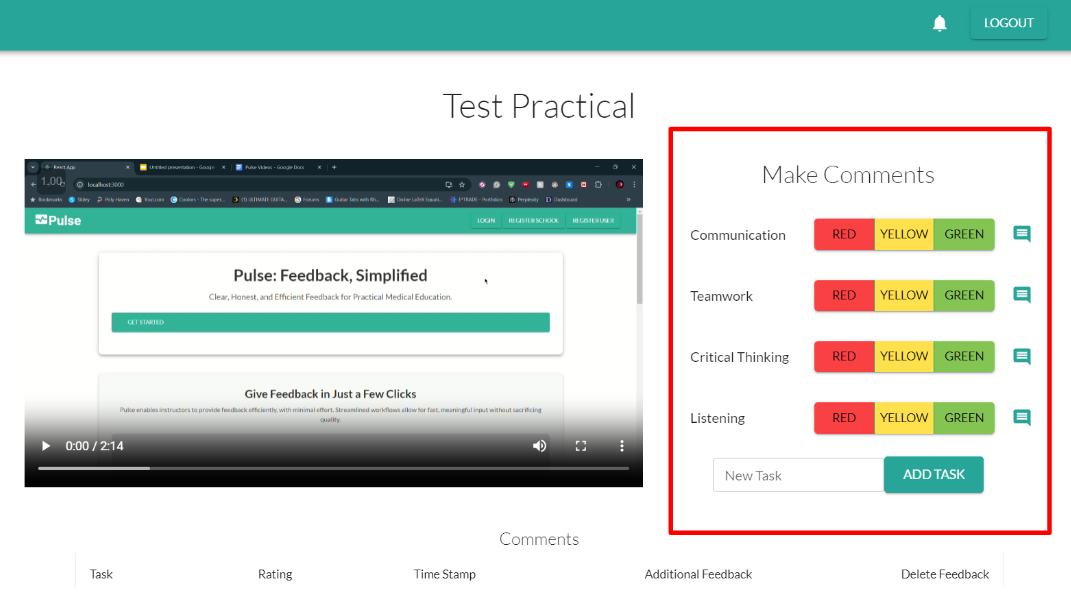
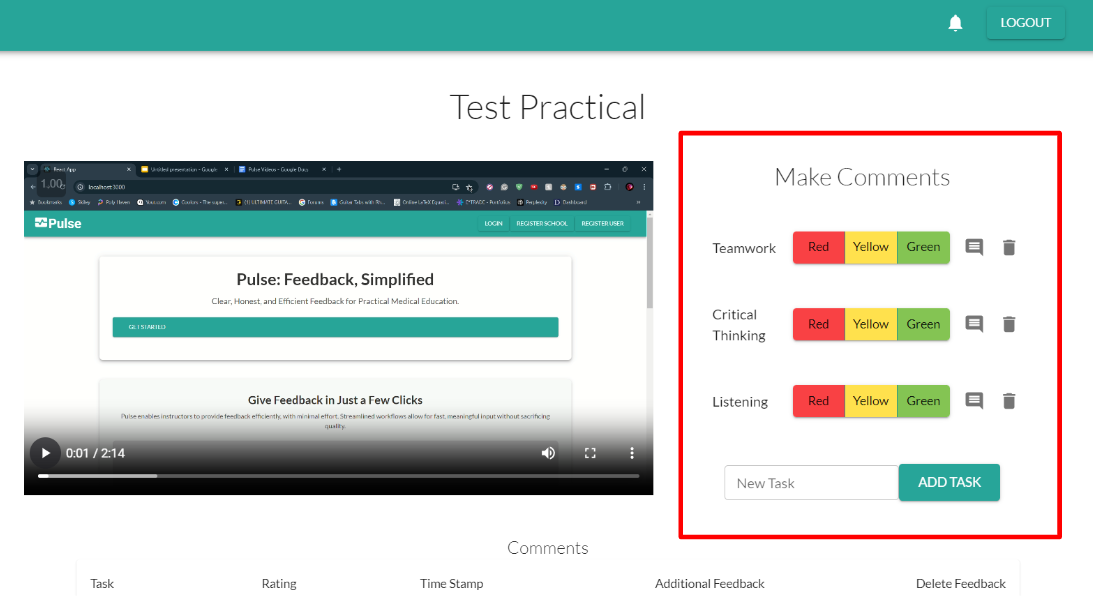
user guides

diff --git a/client/src/components/pages/InstructorPractical.js b/client/src/components/pages/InstructorPractical.js
@@ -1041,35 +1041,31 @@ export default function InstructorPractical() {
                                     }}>
 
                                         <Box sx={{
-                                            width: "200px",
+                                            minWidth: "160px",
+                                            maxWidth: "160px",
                                             height: "100%",
-                                            pl: 2,
+                                            pl: 1,
+                                            display:"flex"
                                         }}>
                                             <Typography variant="h7">{task.name}</Typography>
                                         </Box>
 
-                                        <Box sx={{ minWidth: "210px", maxWidth: "210px", p: 0 }}>
+                                        <Box sx={{ minWidth: "180px", maxWidth: "180px", display:"flex"}}>
                                             <ButtonGroup variant="contained" aria-label="Basic button group" >
-                                                <Button onClick={() => { handleRating(task, 1) }} variant="contained" color="red" disableElevation sx={{ width: "70px" }}>Red</Button>
-                                                <Button onClick={() => { handleRating(task, 3) }} variant="contained" color="yellow" disableElevation sx={{ width: "70px" }}>Yellow</Button>
-                                                <Button onClick={() => { handleRating(task, 5) }} variant="contained" color="green" disableElevation sx={{ width: "70px" }}>Green</Button>
+                                                <Button onClick={() => { handleRating(task, 1) }} variant="contained" color="red" disableElevation sx={{ width: "60px",textTransform:'none' }}>Red</Button>
+                                                <Button onClick={() => { handleRating(task, 3) }} variant="contained" color="yellow" disableElevation sx={{ width: "60px",textTransform:'none' }}>Yellow</Button>
+                                                <Button onClick={() => { handleRating(task, 5) }} variant="contained" color="green" disableElevation sx={{ width: "60px",textTransform:'none' }}>Green</Button>
                                             </ButtonGroup>
                                         </Box>
-
-                                        <Box sx={{ width: "30px", height: "100%" }}>
-                                            <Button onClick={() => handleTaskChatButton(task)}>
-                                                <InsertCommentIcon />
-                                            </Button>
+                                        <Box sx={{width:"40px",px:1}}>
+                                        <IconButton aria-label="delete" onClick={() => handleTaskChatButton(task)}>
+                                        <InsertCommentIcon />
+                                        </IconButton>
                                         </Box>
-
-                                        <Box sx={{ width: "30px", height: "100%" }}>
-                                            <Button
-                                                onClick={() => handleRemoveTask(task)}
-                                                variant="contained"
-                                                color="error"
-                                            >
-                                                <DeleteIcon />
-                                            </Button>
+                                        <Box sx={{width:"40px",px:1}}>
+                                        <IconButton aria-label="delete" onClick={() => handleRemoveTask(task)}>
+                                        <DeleteIcon />
+                                        </IconButton>
                                         </Box>
                                     </Box>
 
@@ -1235,8 +1231,8 @@ export default function InstructorPractical() {
                         alignItems: "center",
                         justifyContent: "center"
                     }}>
-                        <Typography id="modal-modal-title" variant="h6" component="h2">
-                            {taskToDisplay ? taskToDisplay.name : "No Task"}
+                        <Typography id="modal-modal-title" variant="h4" component="h2">
+                            {taskToDisplay ? taskToDisplay.name + " Discussion": "No Task"}
                         </Typography>
                         <Grid item sx={{
                             width: "100%",
@@ -1274,12 +1270,14 @@ export default function InstructorPractical() {
 
                         <Box sx={{
                             display: "flex",
+                            width:"80%"
                         }}>
                             <TextField label="New Message"
                                 variant="outlined"
                                 color="secondary"
                                 sx={{
                                     mx: 2
+                                    
                                 }}
                                 onChange={e => setMessage(e.target.value)}
                                 fullWidth

diff --git a/client/public/user_guides/instructor/use_practical/use_practical.md b/client/public/user_guides/instructor/use_practical/use_practical.md
@@ -1,14 +1,14 @@
 # Using a Practical (Instructor)
 
-**In this guide:**
-- Making Tasks
-- Adding Comments
-- Adding Additional Feedback
-- Removing Comments
-- Using Discussions
+In this guide:
+- **Making Tasks**
+- **Adding Comments**
+- **Adding Additional Feedback**
+- **Removing Comments**
+- **Using Discussions**
 ---
 
-### Making Tasks
+## **Making Tasks**
 
 Before you can make comments on a Practical, you must first define the Tasks/Skills you are giving feedback on. To make new Tasks for a Practical:
 
@@ -21,10 +21,12 @@ Before you can make comments on a Practical, you must first define the Tasks/Ski
 Now that task will appear in the **Make Comments** section as a Task you can make comments for.
 ![Make Comments](./tasks.png)
 
+*You can **Delete a Task** by clicking the **Trash Icon** next to the Task*
 
+![Delete Task](./delete_task.png)
 ---
 
-### Adding Comments
+## **Adding Comments**
 
 Now that you have tasks/skills set up on the Practical, you can add comments by clicking the **Red**, **Yellow**, or **Green** Buttons in the **Make Comments** section to the right of the video.
 ![Comments](comments.png)
@@ -35,14 +37,40 @@ The comments will also appear below the video, with your most recent comments so
 
 ---
 
-### Adding Additional Feedback
+## **Adding Additional Feedback**
 
-After you have made a comment for a Practical, you may add addtional feedback to that comment in the form of a text. Scroll down below the video to the comment and 
-1
+After you have made a comment for a Practical, you may add addtional feedback to that comment. 
+
+To add additional feedback:
+1. Scroll down below the video to the comment you you have previously made.
+2. Click the text box under **Additional Feedback**
+
+![Additional Feedback](additional_feedback.png)
+
+3. Enter additional feedback then hit **Enter**
+
+![Additional Feedback](enter_feedback.png)
+
+---
+
+## **Removing Comments**
+
+To remove Comments:
+
+1. Scroll down below the video to the comment you you have previously made.
+2. Click the **Trash Icon** next to the comment you would like to delete
 
 
+![Delete Comment](delete_comment.png)
 
-### Removing Comments
+## **Using Discussions**
 
+Each Task is automatically given its own Discussion Thread you can use to discuss that task with your students. To access and use the Discussion Thread:
 
-### Using Discussions
+1. Locate that task under the **Make Comments** section.
+2. Click the **Discussion Icon** next to the task.
+![Locate Discussion](locate_discussion.png)
+![Discussion](discussion.png)
+3. Enter the message you would like to send. Then click the **Send Icon**
+![Enter Message](enter_chat.png)
+![Resulting Discussion](result.png)

diff --git a/client/public/user_guides/admin/add_users/add_users.md b/client/public/user_guides/admin/add_users/add_users.md
@@ -17,7 +17,7 @@ Login to your Admin account and navigate to your **Dashboard**.
 
 ---
 
-## Adding Students
+## **Adding Students**
 
 To add Students to a School:
 1. Click **Invite Student** on the **Admin Dashboard**.
@@ -26,7 +26,7 @@ To add Students to a School:
 3. Click **Invite**.
 
 
-## Adding Instructors
+## **Adding Instructors**
 
 To add Students to a School:
 1. Click **Invite Instructor** on the **Admin Dashboard**.
@@ -35,7 +35,7 @@ To add Students to a School:
 3. Click **Invite**.
 
 
-## Adding Other Admins
+## **Adding Other Admins**
 
 To add other Admins to a School:
 1. Click **Invite Admin** on the **Admin Dashboard**.

diff --git a/client/public/user_guides/instructor/manage_practical/manage_practical.md b/client/public/user_guides/instructor/manage_practical/manage_practical.md
@@ -27,7 +27,7 @@ Then on the **Practical Settings Tab** you can:
 
 ---
 
-### Adding Students
+## **Adding Students**
 
 To add additional students to a Practical:
 
@@ -39,7 +39,7 @@ To add additional students to a Practical:
    ![Update Adding](update_add.png)
 
 ---
-### Removing Students
+## **Removing Students**
 
 To remove students from a Practical:
 
@@ -49,7 +49,7 @@ To remove students from a Practical:
    ![Update Removing](update_remove.png)
 
 ---
-### Deleting a Practical
+## **Deleting a Practical**
 
 Click the **Delete Practical** button.
 
